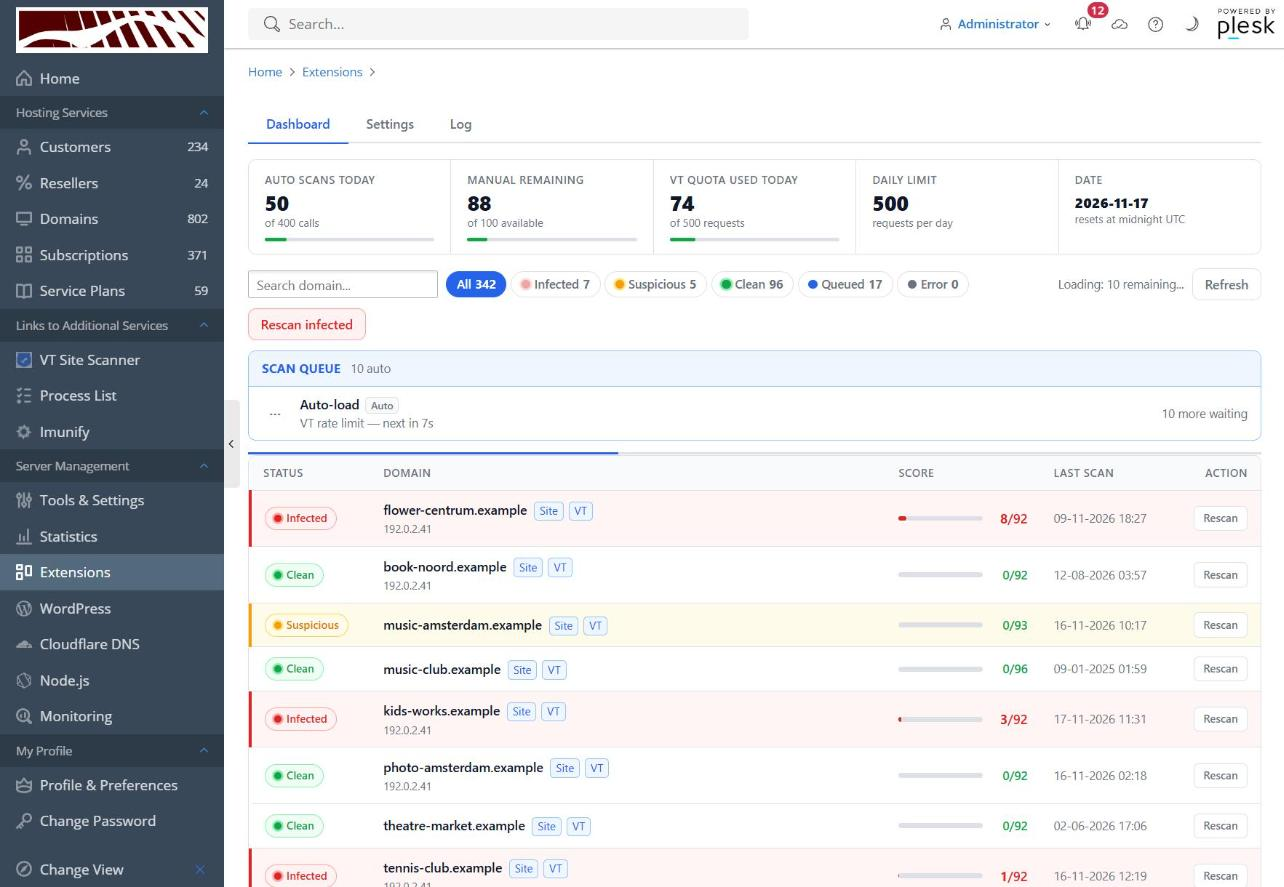
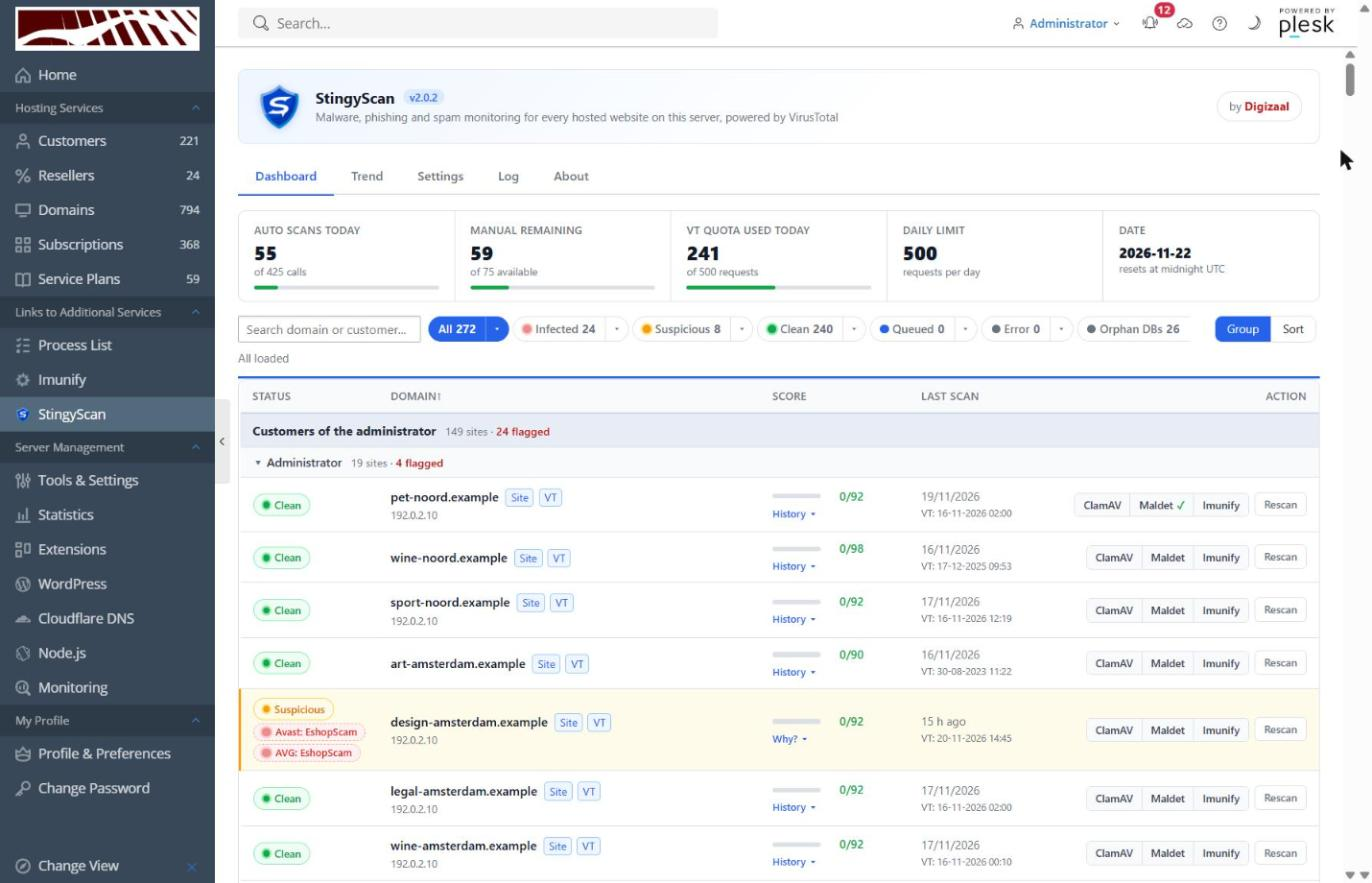
Docs: new screenshots (dashboard, details, history, settings, trend, status changes, Home card)

diff --git a/README.md b/README.md
@@ -15,7 +15,7 @@ Made by **Dirk Zaal** of **[Digizaal](https://www.digizaal.nl)**, a web developm
 >
 > **[Sign up as a beta tester](https://github.com/dzaal/StingyScan-for-Plesk/issues/new?template=beta-signup.yml)** · install with [one command](#installation) · **[send feedback](https://github.com/dzaal/StingyScan-for-Plesk/issues/new?template=beta-feedback.yml)**
 
-![From an infected site to the vendors that flag it, each with a link to ask for a review (demo names)](docs/screenshots/why-flagged-demo.gif)
+![StingyScan dashboard in Plesk: every hosted site with its status, score, file scanners and Rescan (placeholder names)](docs/screenshots/scanner-dashboard.png)
 
 ## Who it's for
 
@@ -30,28 +30,25 @@ StingyScan makes that quota go a long way:
 
 ## Screenshots
 
-**Scanner dashboard:** every hosted website with its status, detection score and a Rescan button. The Scan Monitor shows what is being checked right now.
+**Dashboard:** every hosted website, grouped by reseller and customer, with its status, detection score, last scan, file scanner buttons and Rescan. Badges such as *Avast: Botnet* come from the optional direct checks.
 
-![StingyScan dashboard in Plesk](docs/screenshots/scanner-dashboard.png)
+(See the screenshot at the top.)
 
-**Why is a site flagged, and how do you fix it?** Click the score of a flagged site: you see which security vendors flag it, a review link per vendor, and the steps from cleaning the site to getting it delisted.
+**Why is a site flagged, and how do you fix it?** Click a flagged site: you see Google Safe Browsing, AVG and Avast (direct), every VirusTotal vendor that flags it with a review link, and which reviews you already requested.
 
-![Vendors that flag a site, with review links and the steps to get delisted](docs/screenshots/why-flagged.png)
+![Vendors that flag a site, with review links and requests already made](docs/screenshots/why-flagged.png)
 
-**Card on the Plesk Home page:** counts per status and the sites flagged by the most engines, straight on the admin's Home page.
+Below that, the **history of the site**: detections, review requests, and classifications appearing or going away.
+
+![History of a site](docs/screenshots/site-history.png)
+
+**Card on the Plesk Home page:** counts per status and the sites flagged by the most engines.
 
 <p>
   <img src="docs/screenshots/home-widget.png" alt="StingyScan card on the Plesk Home page" width="346">
 </p>
 
-<details>
-<summary>The card in context on the Plesk Home page</summary>
-
-![Plesk Home page with the StingyScan card](docs/screenshots/home-dashboard.png)
-
-</details>
-
-*Domain names and IP addresses in these screenshots are replaced with placeholders. The trend graph shows demo data.*
+*Domain names, IP addresses, customer names and API keys in these screenshots are replaced with placeholders. The trend graph partly shows demo data (the shaded days).*
 
 ---
 
@@ -127,6 +124,8 @@ How it works: website files belong to the subscription users, so the scans run t
 
 ## Settings
 
+![Settings: VirusTotal with its daily budget, Google Safe Browsing, and the experimental AVG / Avast checks](docs/screenshots/settings.png)
+
 The **Settings** tab, from top to bottom (text in Settings is never lighter than rgb(32, 32, 32), for easy reading):
 
 - **VirusTotal**: the API key, with a green check *API key active* when VirusTotal accepts it (a red cross when it doesn't).
@@ -181,9 +180,11 @@ The **Trend** tab shows how infections develop, per day, over the last **1, 2 or
 - Hover over a day for its figures, or open **Show as table**.
 - **Recent status changes**, newest first, one line per change: the date (time), the status before and after as coloured badges with a solid arrow between them (green = better, red = worse), and the site, for example `20-11-2026 (11:10)  [Infected] ➡ [Suspicious]  flower-centrum.example`. Click the site to open its VirusTotal report. A site that was infected or suspicious and leaves the site list (deleted, disabled or suspended in Plesk) shows as *Left the list*. Changes from before this list existed are filled in once from the scan logs.
 
-![Trend graph with demo data: many infections, a big clean-up, then a slow rise again](docs/screenshots/trend.png)
+![Trend graph: infected and suspicious sites per day, and sites cleaned per day](docs/screenshots/trend.png)
 
-*This screenshot uses demo data (the shaded part): many infected sites, a big clean-up two months ago, and a slow rise since.*
+*The shaded days are demo data; the days after are real totals.*
+
+![Recent status changes: VirusTotal status changes and AVG / Avast classifications per site](docs/screenshots/status-changes.png)
 
 The totals are saved once a day: by the nightly scan (for the server, every reseller and every customer), and whenever someone opens the dashboard. The history is kept for about a year in the data folder (`vt_history.json` for the server, `vt_history_r_<login>.json` per reseller, `vt_history_c_<login>.json` per customer). Demo data is only added when you run the demo script below.
 
